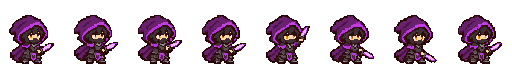
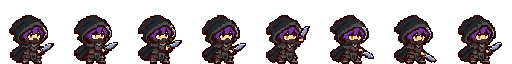
셰이드 검정/보라 색 교체 + 철 칼(정지·애니)

diff --git a/개발일지/2026-11-25/이미지.md b/개발일지/2026-11-25/이미지.md
@@ -132,3 +132,8 @@
 ## 노을 배경 bg_field_dusk.png (사용자 확정)
 - bg_field.png와 같은 720×402, 지형 한 칸도 안 어긋나게 색만 바꿈(하늘 보라→자홍→주황, 바위·나무 따뜻한 빛, 그림자 보랏빛). 새 파일 `img/p/bg_field_dusk.png`.
 - UI가 30~40초에 bg_field → dusk로 서서히 바뀌게 배선 요청. 밤은 그 위에 지금 밤 색 덮기.
+
+## 셰이드(shadow) 색 교체 — 옛 그림 유지, 검정↔보라
+- 사용자 지시: 전체 유지하고 색만. 후드·망토·장식 보라 → 검정, 후드 속 머리카락 → 보라, 칼은 철 느낌(윗날 흰 하이라이트, 은회색 면, 아랫날 강철색).
+- 같은 이름 교체: img/p/shadow.png (옛것 shadow_v1.png), img/p/shadow_anim.png (옛것 shadow_anim_v1.png). UI는 files에 넣어 배포 필요.
+- 코덱스로 새로 그린 판(셰이드 신디자인)은 눈·머리 비율·외곽선 색이 기존 영웅과 달라 통일성이 깨져서 버림. 앞으로 리터칭은 기존 그림 위 도트 수정으로.
